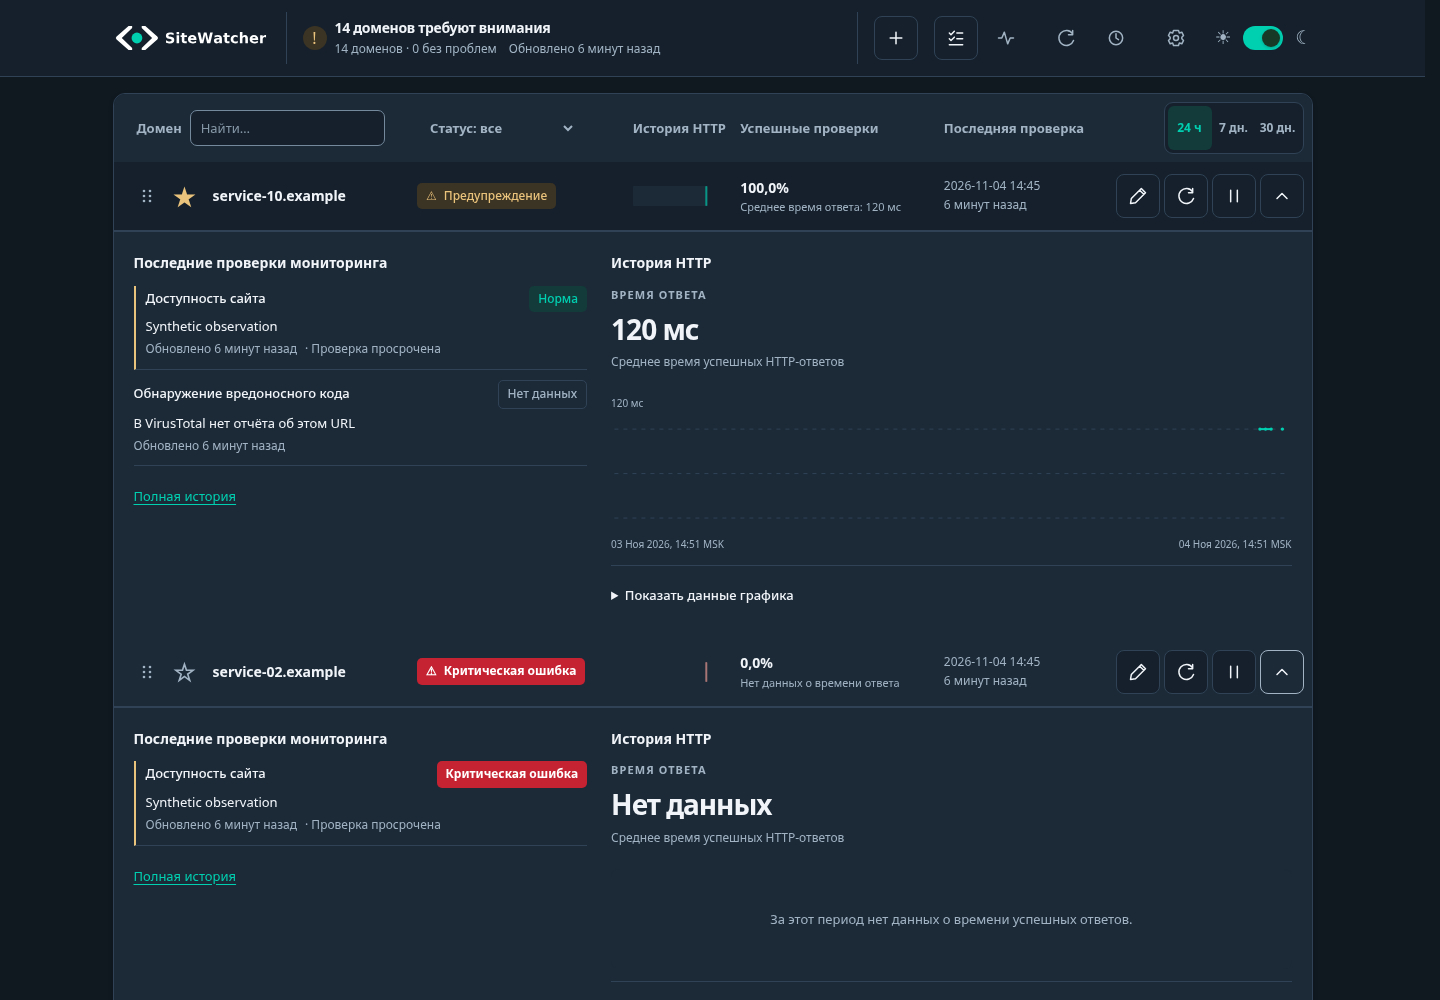
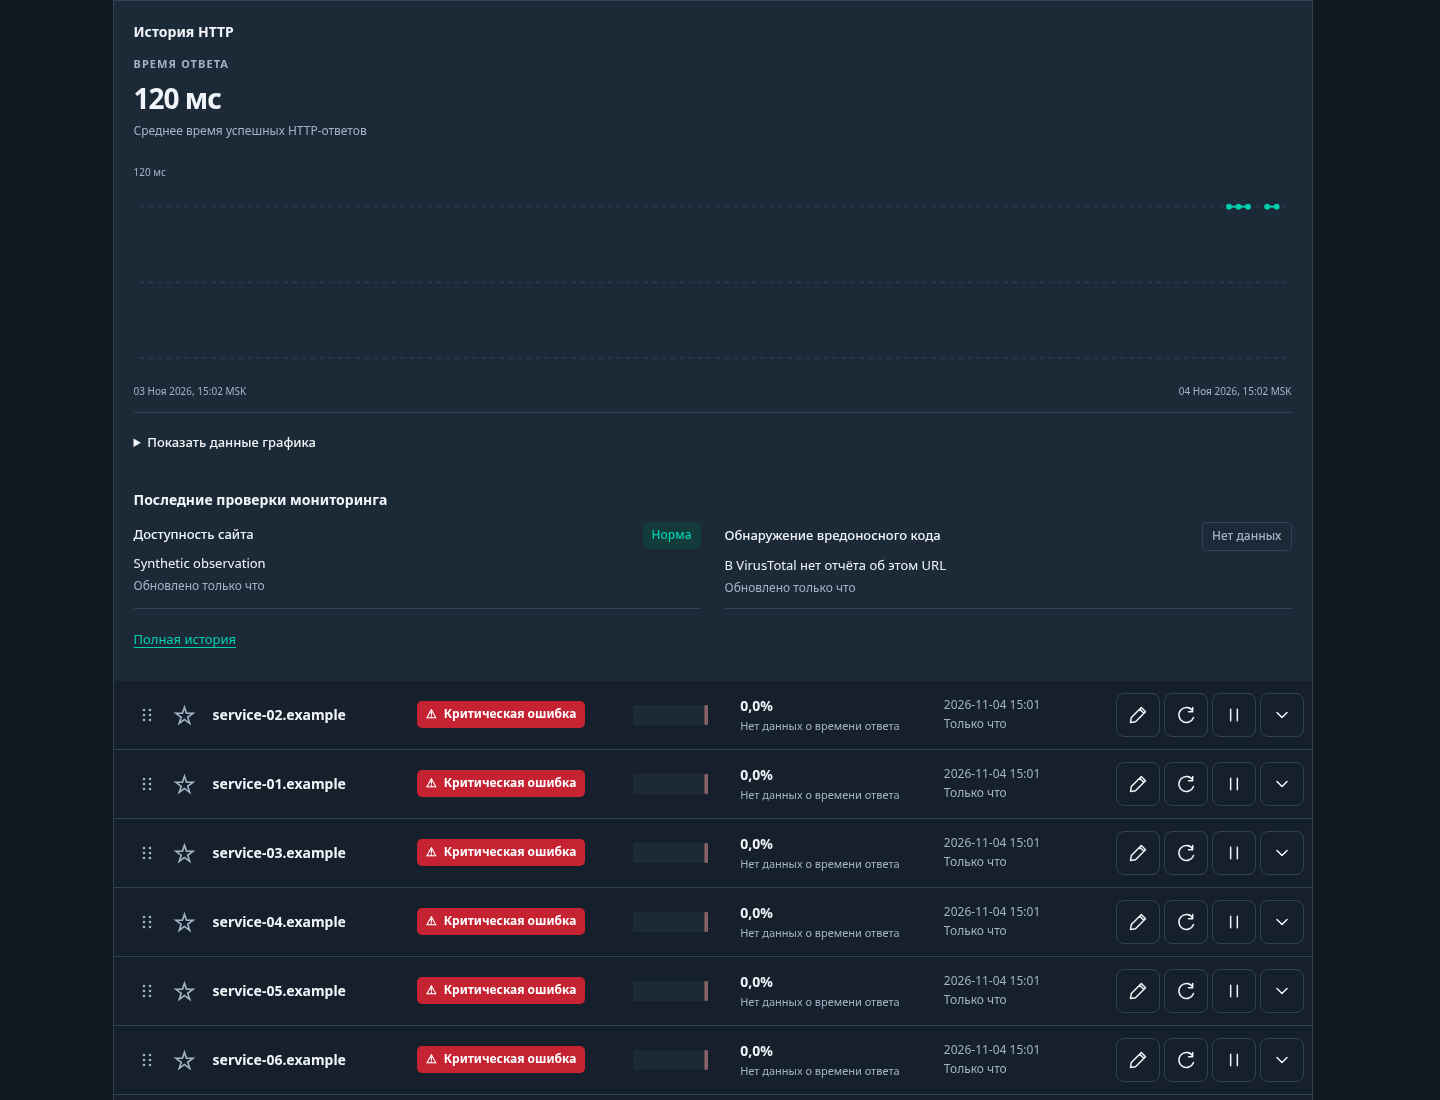
fix: lead domain details with charts and simplify public copy

diff --git a/sitewatcher/webapp/templates/sitewatcher/public.html b/sitewatcher/webapp/templates/sitewatcher/public.html
@@ -8,7 +8,21 @@
     <section class="header-monitoring-summary public-status-summary {% if attention %}needs-attention{% elif not available %}is-neutral{% endif %}" aria-label="{% translate 'Published service status' %}">
         <span class="status-symbol" aria-hidden="true">{% if attention %}!{% elif available %}✓{% else %}–{% endif %}</span>
         <div>
-            <h2>{% translate 'HTTP availability' %}: {% blocktranslate with available=available unavailable=unavailable published=report.domains|length %}{{ available }} available · {{ unavailable }} unavailable · {{ published }} published{% endblocktranslate %}</h2>
+            {% with total=report.domains|length %}
+            <h2 title="{% translate 'HTTP availability' %}">
+                {% if unavailable %}
+                    {% if total == 1 %}{% translate 'Published site is unavailable' %}{% else %}{% blocktranslate count count=unavailable with total=total %}{{ count }} of {{ total }} sites is unavailable{% plural %}{{ count }} of {{ total }} sites are unavailable{% endblocktranslate %}{% endif %}
+                {% elif available == total %}
+                    {% if total == 1 %}{% translate 'Published site is working' %}{% else %}{% blocktranslate count count=total %}All {{ count }} site is working{% plural %}All {{ count }} sites are working{% endblocktranslate %}{% endif %}
+                {% elif unknown %}
+                    {% translate 'Some sites have no recent data' %}
+                {% elif paused == total %}
+                    {% translate 'Monitoring is paused' %}
+                {% else %}
+                    {% translate 'Monitoring is paused for some sites' %}
+                {% endif %}
+            </h2>
+            {% endwith %}
             <p class="header-summary-meta"><span>{% if attention %}{% blocktranslate count count=attention %}{{ count }} domain needs attention{% plural %}{{ count }} domains need attention{% endblocktranslate %}{% else %}{% translate 'No active warnings' %}{% endif %}{% if paused %} · {% translate 'Paused' %}: {{ paused }}{% endif %}{% if unknown %} · {% translate 'No recent data' %}: {{ unknown }}{% endif %}</span><span class="header-checked">{% if observed %}<time datetime="{{ observed.iso }}" tabindex="0" title="{% translate 'Latest saved check result' %}: {{ observed.label }}">{{ observed.updated_label }}</time>{% else %}{% translate 'Not checked yet' %}{% endif %}</span></p>
         </div>
     </section>

diff --git a/sitewatcher/webapp/templates/sitewatcher/partials/domain_details.html b/sitewatcher/webapp/templates/sitewatcher/partials/domain_details.html
@@ -1,5 +1,15 @@
 {% load i18n %}
 <div class="domain-detail-layout">
+    <section class="domain-detail-chart" aria-label="{% translate 'HTTP history' %}">
+        <h3>{% translate 'HTTP history' %}</h3>
+        {% if report %}
+            {% if not report.totals.sample_count %}<p class="no-data">{% translate 'No HTTP observations in this period.' %}</p>{% endif %}
+            {% include 'sitewatcher/partials/chart.html' with report=report %}
+            {% include 'sitewatcher/partials/chart_data.html' with report=report %}
+        {% else %}
+            <p class="no-data">{% translate 'No HTTP observations in this period.' %}</p>
+        {% endif %}
+    </section>
     <section class="domain-detail-checks" aria-label="{% translate 'Latest monitoring checks' %}">
         <h3>{% translate 'Latest monitoring checks' %}</h3>
         {% if settings_error and owner_detail %}
@@ -23,15 +33,5 @@
             {% endfor %}
         </ul>
         {% if owner_detail %}<a class="full-history-link" href="/domains/history?domain={{ domain_name|urlencode }}&amp;days={{ report.days }}">{% translate 'Full history' %}</a>{% endif %}
-    </section>
-    <section class="domain-detail-chart" aria-label="{% translate 'HTTP history' %}">
-        <h3>{% translate 'HTTP history' %}</h3>
-        {% if report %}
-            {% if not report.totals.sample_count %}<p class="no-data">{% translate 'No HTTP observations in this period.' %}</p>{% endif %}
-            {% include 'sitewatcher/partials/chart.html' with report=report %}
-            {% include 'sitewatcher/partials/chart_data.html' with report=report %}
-        {% else %}
-            <p class="no-data">{% translate 'No HTTP observations in this period.' %}</p>
-        {% endif %}
     </section>
 </div>

diff --git a/sitewatcher/webapp/static/sitewatcher/domain_list.css b/sitewatcher/webapp/static/sitewatcher/domain_list.css
@@ -3,7 +3,7 @@
 .topbar-inner:has(.public-status-summary) { grid-template-columns: auto minmax(0, 1fr) auto auto; }
 .domain-detail-layout {
   display: grid;
-  grid-template-columns: minmax(260px, .8fr) minmax(0, 1.2fr);
+  grid-template-columns: minmax(0, 1fr);
   align-items: start;
   gap: 24px;
   padding: 20px;
@@ -15,9 +15,9 @@
 }
 .domain-detail-layout > section { min-width: 0; }
 .domain-detail-layout h3 { margin: 0 0 12px; font-size: 14px; font-weight: 600; }
-.domain-check-list { list-style: none; margin: 0; padding: 0; }
+.domain-check-list { display: grid; grid-template-columns: repeat(2, minmax(0, 1fr)); column-gap: 24px; list-style: none; margin: 0; padding: 0; }
 .domain-check-list > li { padding: 10px 0; border-bottom: 1px solid var(--line); }
-.domain-check-list > li:first-child { padding-top: 0; }
+.domain-check-list > li:nth-child(-n+2) { padding-top: 0; }
 .domain-check-list .check-needs-attention { border-left: 2px solid var(--amber); padding-left: 10px; }
 .domain-check-heading { display: flex; align-items: baseline; justify-content: space-between; gap: 12px; }
 .domain-check-heading strong { font-weight: 500; overflow-wrap: anywhere; }
@@ -112,4 +112,9 @@
 @media (max-width: 720px) {
   .topbar-inner:has(.public-status-summary) { grid-template-columns: minmax(0, 1fr) auto; }
   .topbar-inner:has(.public-status-summary) .theme-controls { grid-column: 2; grid-row: 1; }
+}
+
+@media (max-width: 720px) {
+  .domain-check-list { grid-template-columns: minmax(0, 1fr); }
+  .domain-check-list > li:nth-child(2) { padding-top: 10px; }
 }

diff --git a/sitewatcher/webapp/templates/sitewatcher/base.html b/sitewatcher/webapp/templates/sitewatcher/base.html
@@ -61,7 +61,7 @@
             {% endblock %}
         </main>
         <footer class="footer">
-            <a href="https://github.com/NikKurkov/sitewatcher">SiteWatcher <span aria-hidden="true">·</span> {% translate 'Website monitoring' %}</a>
+            <a href="https://github.com/NikKurkov/sitewatcher">SiteWatcher</a>
             {% if owner_toolbar and not public_view %}
                 <a href="{% if request.workspace.public_enabled %}{{ request.workspace.public_path }}{% else %}/settings#public-status{% endif %}">{% translate 'Public page' %}</a>
             {% endif %}

diff --git a/tests/test_webapp_public.py b/tests/test_webapp_public.py
@@ -59,6 +59,29 @@ def test_public_disabled_by_default_and_hash_only_one_time_link(owner, client):
     assert b'Rotate link' in get(client, '/settings').content
 
 
+def test_public_headline_uses_plain_language_for_single_multiple_and_failed_sites(owner, client):
+    from sitewatcher.config import ChecksModel
+
+    owner.language = 'ru'
+    owner.save(update_fields=['language'])
+    names = ('shared.example', 'second.example', 'third.example', 'fourth.example', 'fifth.example')
+    for name in names:
+        storage.add_domain(731, name)
+        storage.set_domain_override(731, name, {'checks': {
+            key: key == 'http_basic' for key in ChecksModel.model_fields}})
+        storage.save_history(731, name, 'http_basic', 'OK', 'up', {'final_code': 200})
+    path, _, _ = publish(client, domains=names[:1])
+    assert 'Опубликованный сайт работает' in get(Client(), path).content.decode()
+    assert client.post('/settings/public', {'action': 'selection', 'domains': '\n'.join(names)},
+                       HTTP_HOST='localhost').status_code == 200
+    assert 'Все 5 сайтов работают' in get(Client(), path).content.decode()
+    storage.save_history(731, names[0], 'http_basic', 'CRIT', 'down', {'final_code': 503})
+    assert '1 из 5 сайтов недоступен' in get(Client(), path).content.decode()
+    for name in names:
+        storage.set_domain_override(731, name, {'interval_minutes': 0})
+    assert 'Мониторинг приостановлен' in get(Client(), path).content.decode()
+
+
 def test_selected_only_aggregate_dto_guest_and_authenticated_owner(owner, client):
     path, token, _ = publish(client)
     for viewer in (Client(), client):
@@ -351,13 +374,13 @@ def test_stale_and_paused_current_state_do_not_misrepresent_historical_success(o
     assert data['domains'][0]['current_state'] == 'no_recent_data'
     assert data['totals']['success_percent'] == 100
     body = get(Client(), path + '?days=7').content.decode()
-    assert 'No recent data' in body and 'All published services available' not in body
+    assert 'No recent data' in body and 'Published site is working' not in body
     assert '100.0%' in body
     storage.set_domain_override(731, 'shared.example', {'interval_minutes': 0})
     data = get(Client(), path + 'data?days=7').json()
     assert data['domains'][0]['current_state'] == 'paused'
     body = get(Client(), path + '?days=7').content.decode()
-    assert 'Paused' in body and 'All published services available' not in body
+    assert 'Paused' in body and 'Published site is working' not in body
     assert '100.0%' in body
 
 
@@ -486,7 +509,7 @@ def test_public_attention_is_safe_and_absent_passive_report_is_neutral(owner, cl
     assert 'data-domain-key="shared.example"' in body
     assert 'data-domain-disclosure' in body
     assert 'HTTP availability' in body
-    disclosure = body.split('data-domain-disclosure', 1)[1].split('</details>', 1)[0]
+    disclosure = body.split('data-domain-disclosure', 1)[1].split('data-domain-key=', 1)[0]
     assert 'Latest monitoring checks' in disclosure
     assert 'chart' in disclosure
     assert '<details class="public-component-chart" open' not in body

diff --git a/docs/usage.ru.md b/docs/usage.ru.md
@@ -96,7 +96,7 @@ sitewatcher worker
 
 ### Домены и история
 
-Нажатие на свободную часть строки или стрелку раскрывает последние проверки и график HTTP. Можно открыть несколько доменов для сравнения. Имя домена открывает полную историю; избранное, перестановка, редактирование, ручная проверка и пауза доступны без раскрытия. [Пример раскрытия](screenshots/overview-inline-details.png).
+Нажатие на свободную часть строки или стрелку раскрывает последние проверки и график HTTP. Сначала показан график на всю ширину, ниже — проверки в два столбца на большом экране и в один на телефоне. Можно открыть несколько доменов для сравнения. Имя домена открывает полную историю; избранное, перестановка, редактирование, ручная проверка и пауза доступны без раскрытия. [Пример раскрытия](screenshots/overview-inline-details.png).
 
 Сводка состояния отделена линиями справа от логотипа SiteWatcher и содержит строку «Обновлено … назад» для последнего сохранённого результата проверки. Точная дата и время доступны по наведению. Период истории расположен в заголовке таблицы справа от «Последняя проверка». На узких экранах сводка переносится под логотип. Примеры: [компьютер](screenshots/overview-compact-header-desktop.png), [телефон](screenshots/overview-compact-header-mobile.png).
 

diff --git a/docs/usage.en.md b/docs/usage.en.md
@@ -93,7 +93,7 @@ On the edit page, choose HTTP or HTTPS on the left and enter the hostname and op
 | No data / unknown | There is not enough information to decide, for example because a provider did not respond. |
 | Paused | Scheduled checks are stopped. You can still run a manual check. |
 
-Hover over a warning or critical badge, or focus it with the keyboard, to see the checks and their times. Click the row or its arrow to reveal current checks and the HTTP chart together. Several domains can stay open for comparison. Click the website name for full history; edit, check, pause, favorites and reorder remain available outside the disclosure. [Inline details](screenshots/overview-inline-details.png). Chart points show their value on hover or focus.
+Hover over a warning or critical badge, or focus it with the keyboard, to see the checks and their times. Click the row or its arrow to reveal current checks and the HTTP chart together. The graph spans the full width above the check results, which use two columns on larger screens and one on phones. Several domains can stay open for comparison. Click the website name for full history; edit, check, pause, favorites and reorder remain available outside the disclosure. [Inline details](screenshots/overview-inline-details.png). Chart points show their value on hover or focus.
 
 History can be filtered by dates, check and result. Dates include both selected days in your workspace timezone. The results list shows up to 100 matching entries; these filters do not change the chart's selected period. The success percentage describes saved HTTP checks, not a continuous measurement of uptime.
 

diff --git a/docs/superpowers/specs/2026-11-04-unified-domain-disclosures-design.md b/docs/superpowers/specs/2026-11-04-unified-domain-disclosures-design.md
@@ -3,8 +3,8 @@
 All six recommendations approved in conversation on 2026-11-04.
 
 Owner and public pages use compact closed domain rows. Each domain has one
-expandable area containing current checks and the HTTP chart. Desktop uses two
-columns (checks then graph); mobile stacks them. Keep owner favorites, reorder,
+expandable area containing current checks and the HTTP chart. The graph comes first across the full width. Checks follow below in two desktop
+columns and one mobile column, per the approved follow-up. Keep owner favorites, reorder,
 edit, manual check, pause and full history links outside the expandable area.
 Multiple domains may be open. Interactive controls must not toggle the row.
 
